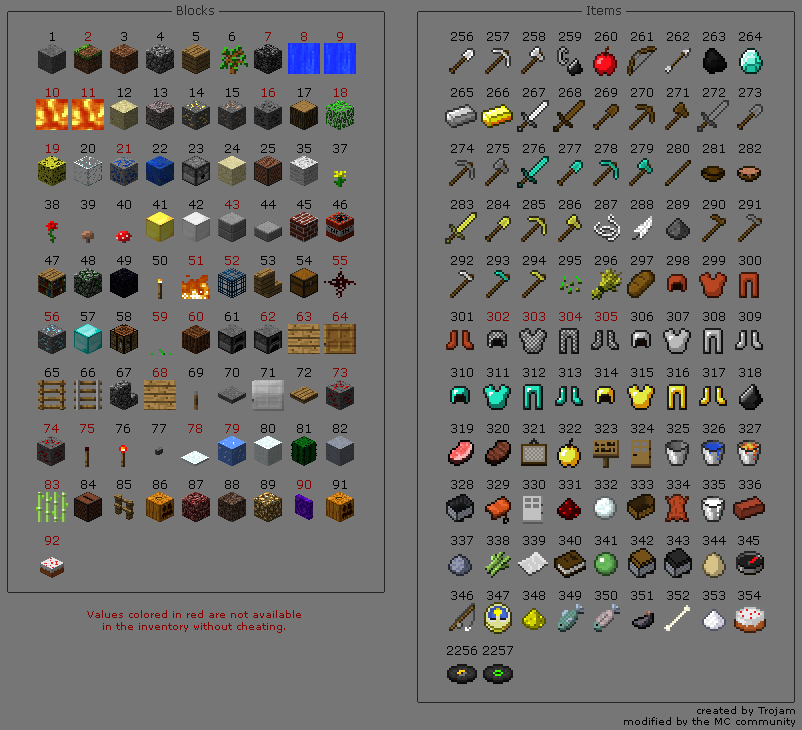
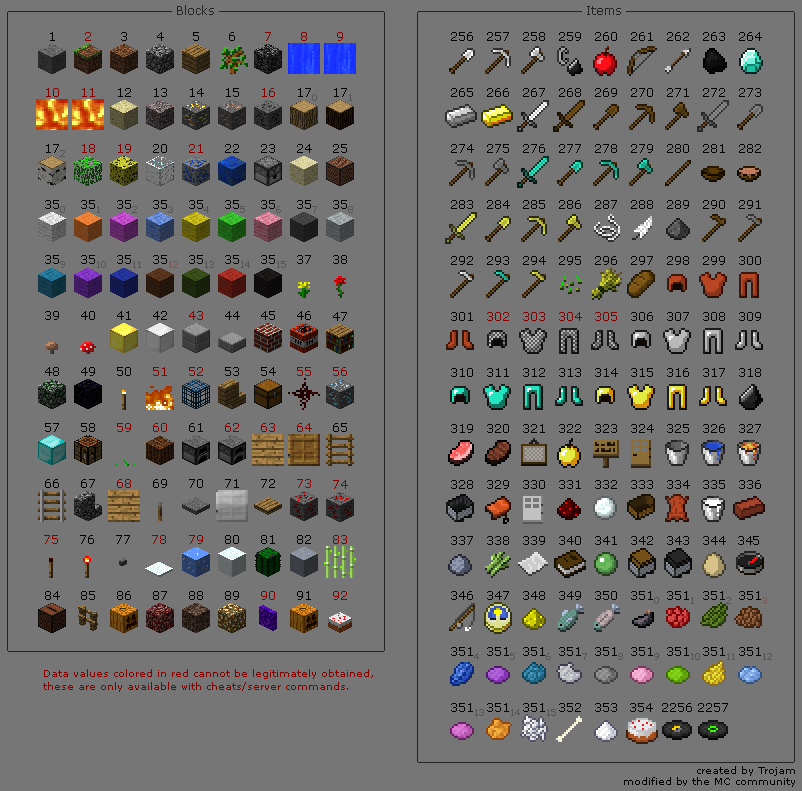
Added Beta 1.3 Items

Changed region(s): [[0.5299, 0.0, 0.9975, 0.9945], [0.0312, 0.0, 0.4676, 0.874], [0.3741, 0.0301, 0.4364, 0.0603]]

diff --git a/Classes/IJInventoryItem.m b/Classes/IJInventoryItem.m
@@ -67,30 +67,38 @@
 	
 	int index = 0;
 	
-	if (itemId <= 92)
+	if (itemId <= 94)
 	{
-		if (itemId <= 25)
+		if (itemId <= 17){
 			index = itemId - 1; // first item is 1
-		else if (itemId == 35)
-			index = itemId - (35 - 25);
-		else if (itemId >= 37)
-			index = itemId - (37 - 26);
+		}
+		else if (itemId <= 35 ){
+			index = itemId + 1;
+		}
+		else if (itemId >= 37){
+			index = itemId + 6;
+		}
 		atlasOffset = NSMakePoint(36, 75);
 	}
-	else if (itemId >= 256 && itemId <= 355)
+	else if (itemId >= 256 && itemId <= 351)
 	{
 		index = itemId - 256;
-		atlasOffset = NSMakePoint(445, 23+52);
+		atlasOffset = NSMakePoint(445, 75);
+	}
+	else if (itemId >= 352 && itemId <= 356)
+	{
+		index = itemId - 241;
+		atlasOffset = NSMakePoint(445, 75);
 	}
 	else if (itemId == 2256)
 	{
 		index = 0;
-		atlasOffset = NSMakePoint(445, pixelsPerRow*12+17);
+		atlasOffset = NSMakePoint(445+pixelsPerColumn*8, pixelsPerRow*13 + 18);
 	}
 	else if (itemId == 2257)
 	{
 		index = 0;
-		atlasOffset = NSMakePoint(445+pixelsPerColumn, pixelsPerRow*12+17);
+		atlasOffset = NSMakePoint(445, pixelsPerRow*14+18);
 	}
 	else
 	{
